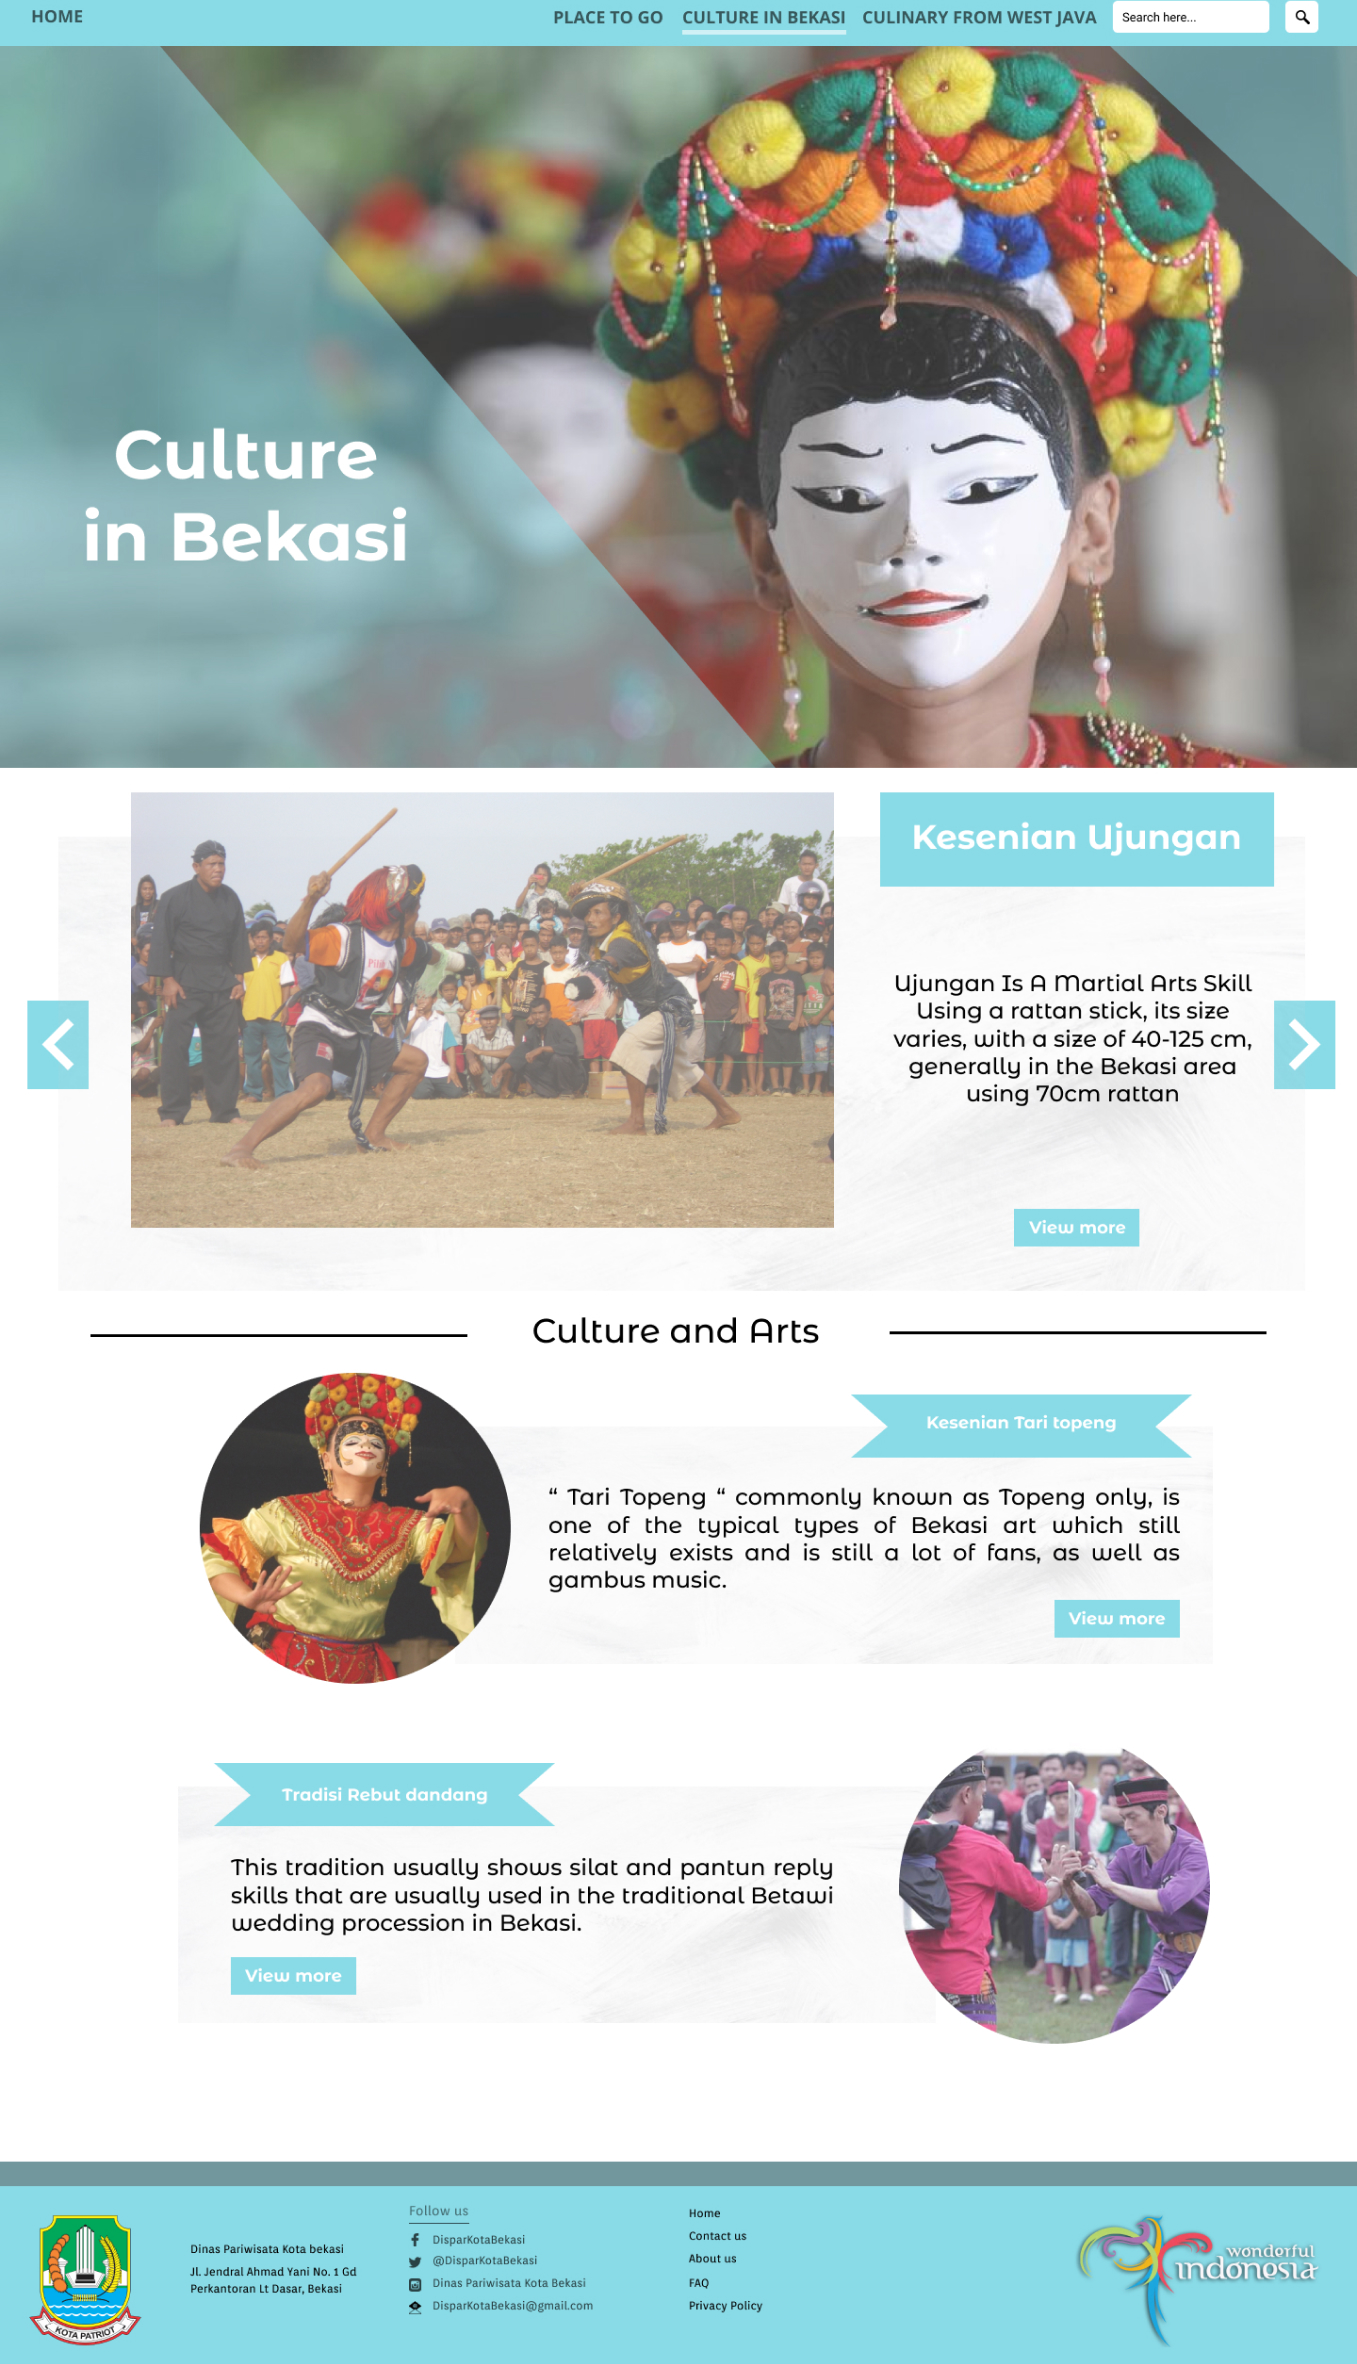
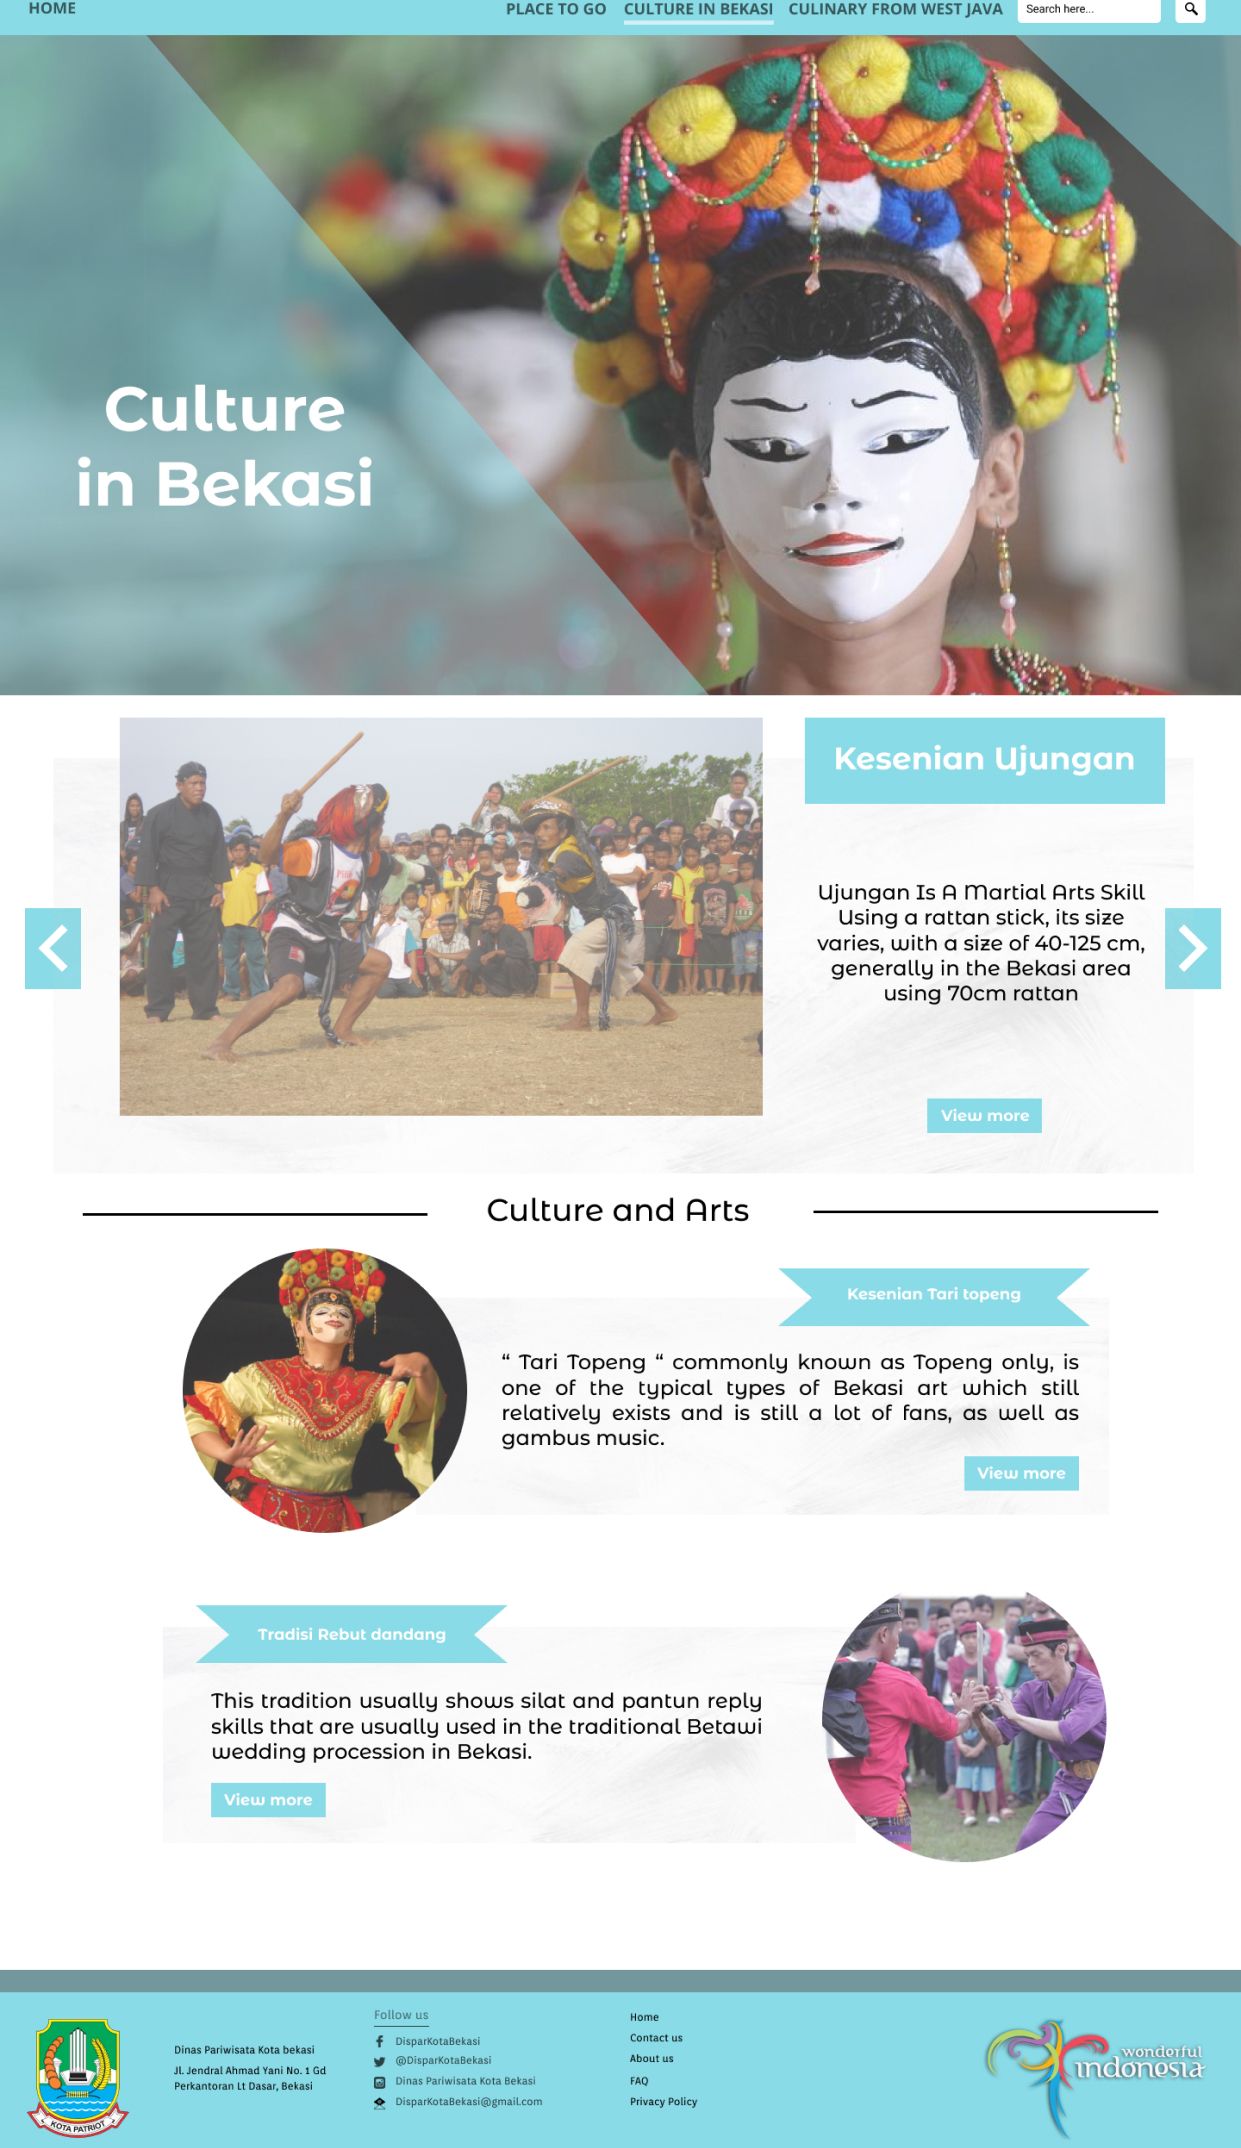
gantiterahir

diff --git a/index.html b/index.html
@@ -54,7 +54,7 @@
 					<div class="banner_content">
 						<div class="media">
 							<div class="d-flex">
-								<img src="img/fotoutama.jpg" alt="">
+								<img src="img/fotoelroi.jpg" alt="">
 							</div>
 							<div class="media-body">
 								<div class="personal_text">
@@ -330,8 +330,8 @@
         			<div class="col-lg-4 col-md-4 col-sm-6 brand manipul design print">
         				<div class="h_gallery_item">
         					<div class="g_img_item">
-        						<img class="img-fluid" src="img/1porto.jpg" alt="">
-        						<a class="light" href="img/porto1.png"><img src="img/gallery/icon.png" alt=""></a>
+        						<img class="img-fluid" src="img/1portofolio.jpg" alt="">
+        						<a class="light" href="img/1portofolio.jpg"><img src="img/gallery/icon.png" alt=""></a>
         					</div>
         					<div class="g_item_text">
         						<h4>Website Clinic</h4>
@@ -348,6 +348,7 @@
         					<div class="g_item_text">
         						<h4>Kopma Design Competition </h4>
         						<p>Client Project</p>
+                    <br>
         					</div>
         				</div>
         			</div>
@@ -355,7 +356,7 @@
         				<div class="h_gallery_item">
         					<div class="g_img_item">
         						<img class="img-fluid" src="img/3porto.jpg" alt="">
-        						<a class="light" href="img/porto7.png"><img src="img/gallery/icon.png" alt=""></a>
+        						<a class="light" href="img/3porto.jpg"><img src="img/gallery/icon.png" alt=""></a>
         					</div>
         					<div class="g_item_text">
         						<h4>Prototype Bekasi Tourism Web</h4>
@@ -366,8 +367,8 @@
         			<div class="col-lg-4 col-md-4 col-sm-6 brand creative print">
         				<div class="h_gallery_item">
         					<div class="g_img_item">
-        						<img class="img-fluid" src="img/portofolio6.png" alt="">
-        						<a class="light" href="img/portofolio6.png"><img src="img/gallery/icon.png" alt=""></a>
+        						<img class="img-fluid" src="img/6portofolio.jpg" alt="">
+        						<a class="light" href="img/6portofolio.jpg"><img src="img/gallery/icon.png" alt=""></a>
         					</div>
         					<div class="g_item_text">
         						<h4>Website Puslitbang TekMIRA</h4>
@@ -378,8 +379,8 @@
         			<div class="col-lg-4 col-md-4 col-sm-6 brand manipul design">
         				<div class="h_gallery_item">
         					<div class="g_img_item">
-        						<img class="img-fluid" src="img/porto4.png" alt="">
-        						<a class="light" href="img/porto4.png"><img src="img/gallery/icon.png" alt=""></a>
+        						<img class="img-fluid" src="img/4portofolio.jpg" alt="">
+        						<a class="light" href="img/4portofolio.jpg"><img src="img/gallery/icon.png" alt=""></a>
         					</div>
         					<div class="g_item_text">
         						<h4>Content Srategy Poster</h4>
@@ -390,8 +391,8 @@
         			<div class="col-lg-4 col-md-4 col-sm-6 brand creative">
         				<div class="h_gallery_item">
         					<div class="g_img_item">
-        						<img class="img-fluid" src="img/portofolio3.png" alt="">
-        						<a class="light" href="img/portofolio3.png"><img src="img/gallery/icon.png" alt=""></a>
+        						<img class="img-fluid" src="img/10porto.jpg" alt="">
+        						<a class="light" href="img/10porto.jpg"><img src="img/gallery/icon.png" alt=""></a>
         					</div>
         					<div class="g_item_text">
         						<h4>Human and Computer Interaction</h4>
